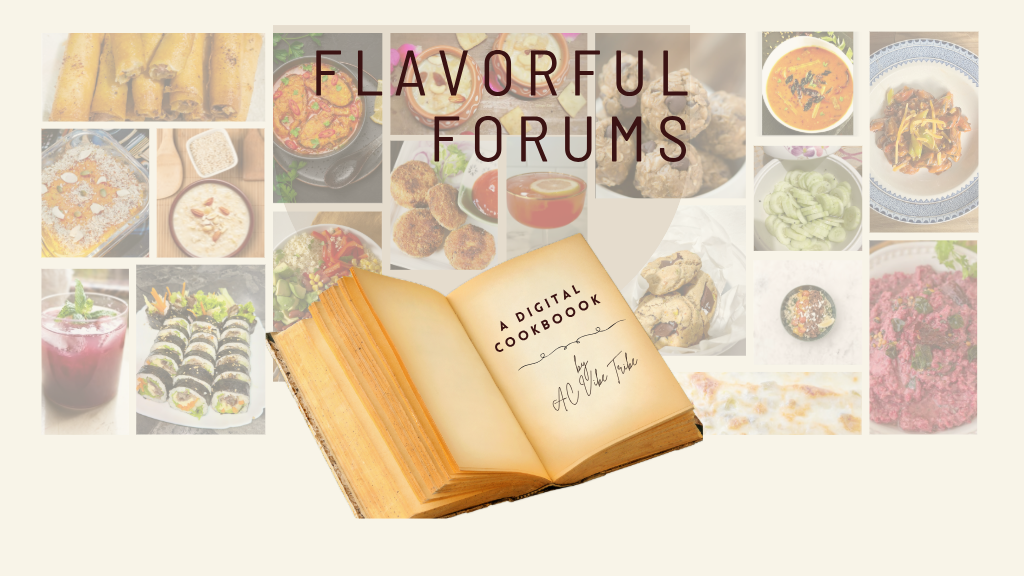
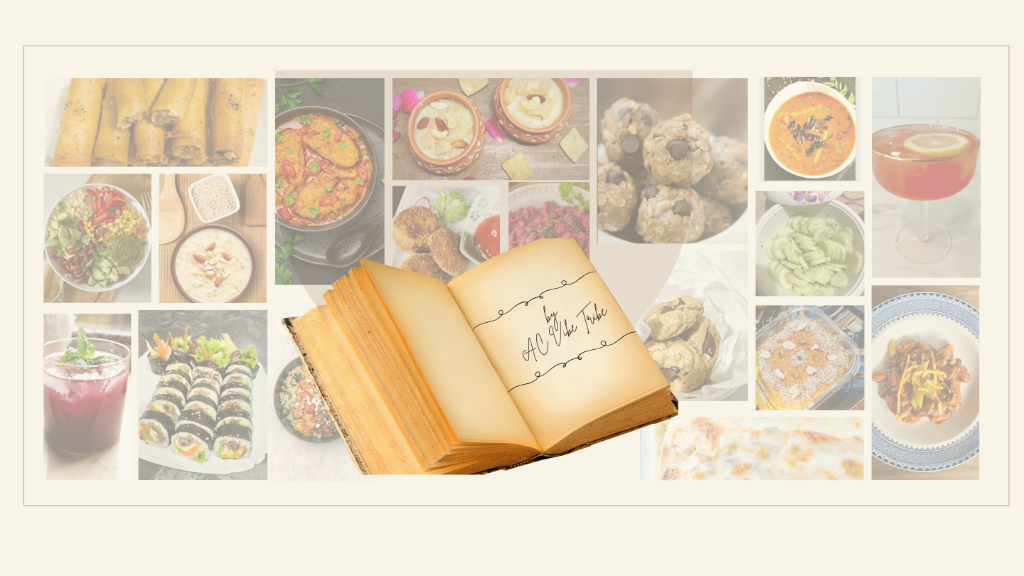
Update header image iteration 2 and add logging

diff --git a/src/lib/db.ts b/src/lib/db.ts
@@ -20,7 +20,18 @@ async function readDatabase(): Promise<Database> {
   try {
     const res = await fetch(BLOB_URL, { cache: 'no-store' });
     if (!res.ok) throw new Error('Failed to fetch DB');
-    return await res.json();
+    const data = await res.json();
+    console.log('DB Read Success. Keys:', Object.keys(data), 'Recipe Count:', data.recipes?.length);
+    if (data.activeId === undefined && data.nextId === undefined) {
+      console.warn('DB missing nextId/activeId, initializing...');
+      // Auto-repair if needed in memory to prevent crashes, though writeDatabase needs to save it.
+      if (!data.recipes) data.recipes = [];
+      if (!data.nextId) {
+        const maxId = data.recipes.reduce((max: number, r: any) => Math.max(max, r.id || 0), 0);
+        data.nextId = maxId + 1;
+      }
+    }
+    return data;
   } catch (error) {
     console.error('DB Read Error:', error);
     return { recipes: [], nextId: 1 };
@@ -65,6 +76,7 @@ export const createRecipe = async (recipe: Omit<Recipe, 'id' | 'createdAt'>): Pr
 export const updateRecipe = async (id: number, updates: Partial<Omit<Recipe, 'id' | 'createdAt'>>): Promise<Recipe | null> => {
   const db = await readDatabase();
   const index = db.recipes.findIndex(r => r.id === id);
+  console.log(`Updating recipe id: ${id}. Found index: ${index}`);
 
   if (index === -1) return null;
 

diff --git a/src/app/api/recipes/[id]/route.ts b/src/app/api/recipes/[id]/route.ts
@@ -29,6 +29,7 @@ export async function PUT(
     try {
         const { id: idString } = await params;
         const id = parseInt(idString);
+        console.log(`API PUT /recipes/${id} called`);
         const updates = await request.json();
 
         const updatedRecipe = await updateRecipe(id, updates);
